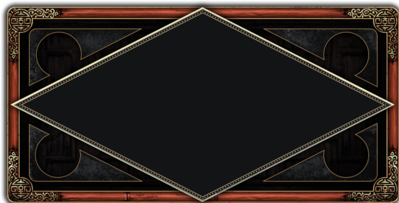
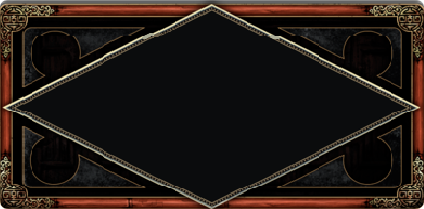
dynamic minimap
Apply for all screen i hope

diff --git a/game/map.py b/game/map.py
@@ -669,8 +669,10 @@ class Map:
                 mini = self.map[x][y]["iso_poly_minimap"]
                 # mini = [((x + self.width / 2) / minimap_scaling + 1640,
                 #        (y + self.height / 4) / minimap_scaling + 820) for x, y in mini]  # position x + ...., y  + ...
-                mini = [((x + self.width / 2) / minimap_scaling + 1277,
-                         (y + self.height / 4) / minimap_scaling + 655) for x, y in mini]  # position x + ...., y  + ...
+                mini = [(x / minimap_scaling + 0.89 * self.width,
+                         y / minimap_scaling + 0.82 * self.height) for x, y in mini]  # position x + ...., y  + ...
+                pygame.draw.polygon(screen, "WHITE", mini, 1)
+
                 pygame.draw.polygon(screen, "WHITE", mini, 1)
 
                 # Draw small dot representing entities

diff --git a/game/hud.py b/game/hud.py
@@ -226,7 +226,7 @@ class Hud:
             # Draw minimap
             screen.blit(minimap_panel,
                         (self.width - minimap_panel.get_width(), self.height - selection_panel.get_height()))
-            # map.draw_minimap(screen, camera)
+            map.draw_minimap(screen, camera)
             screen.blit(action_menu, (0, self.height - action_menu.get_height()))
             screen.blit(selection_panel, (action_menu.get_width(), self.height - selection_panel.get_height()))
 
